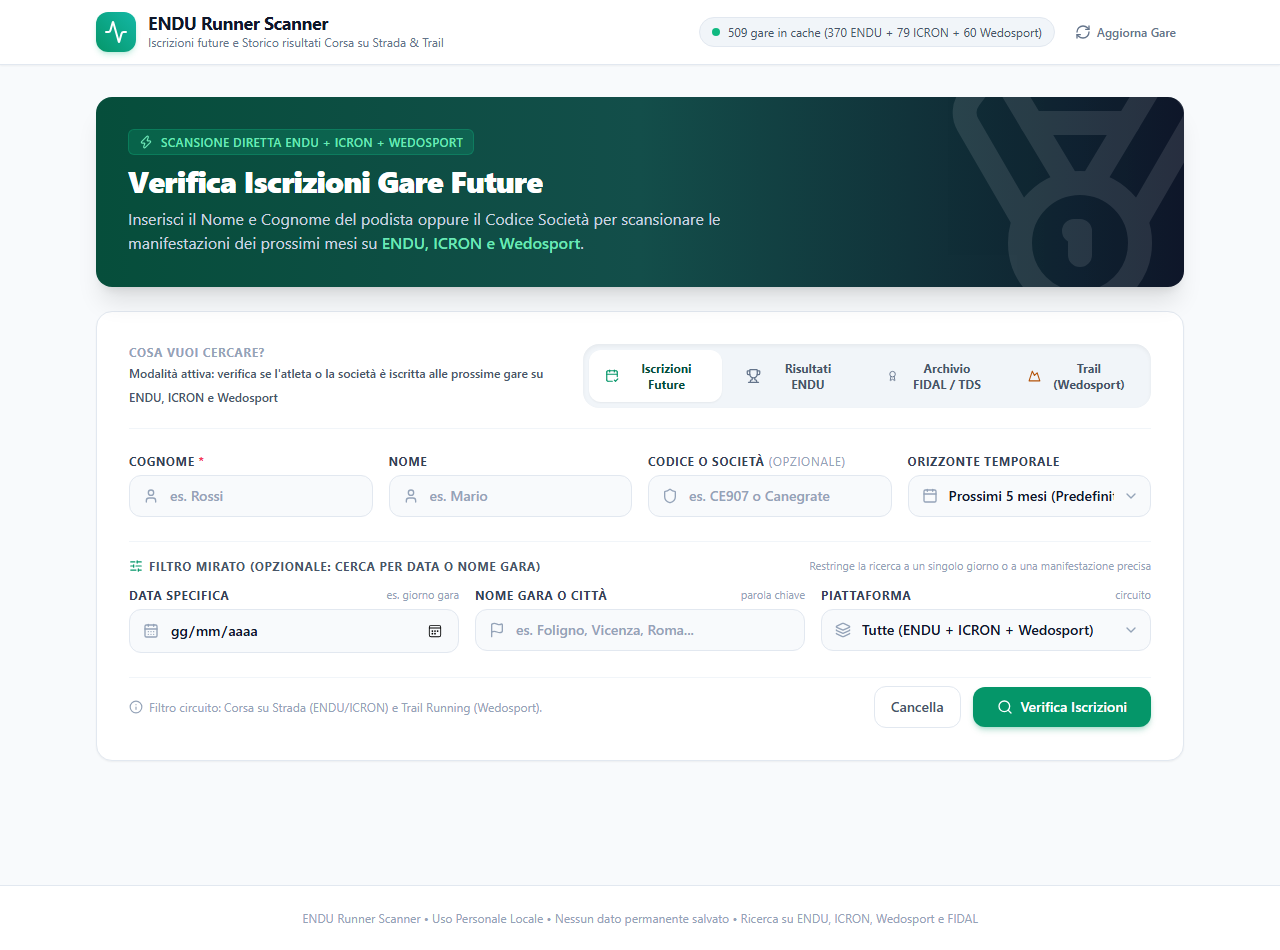
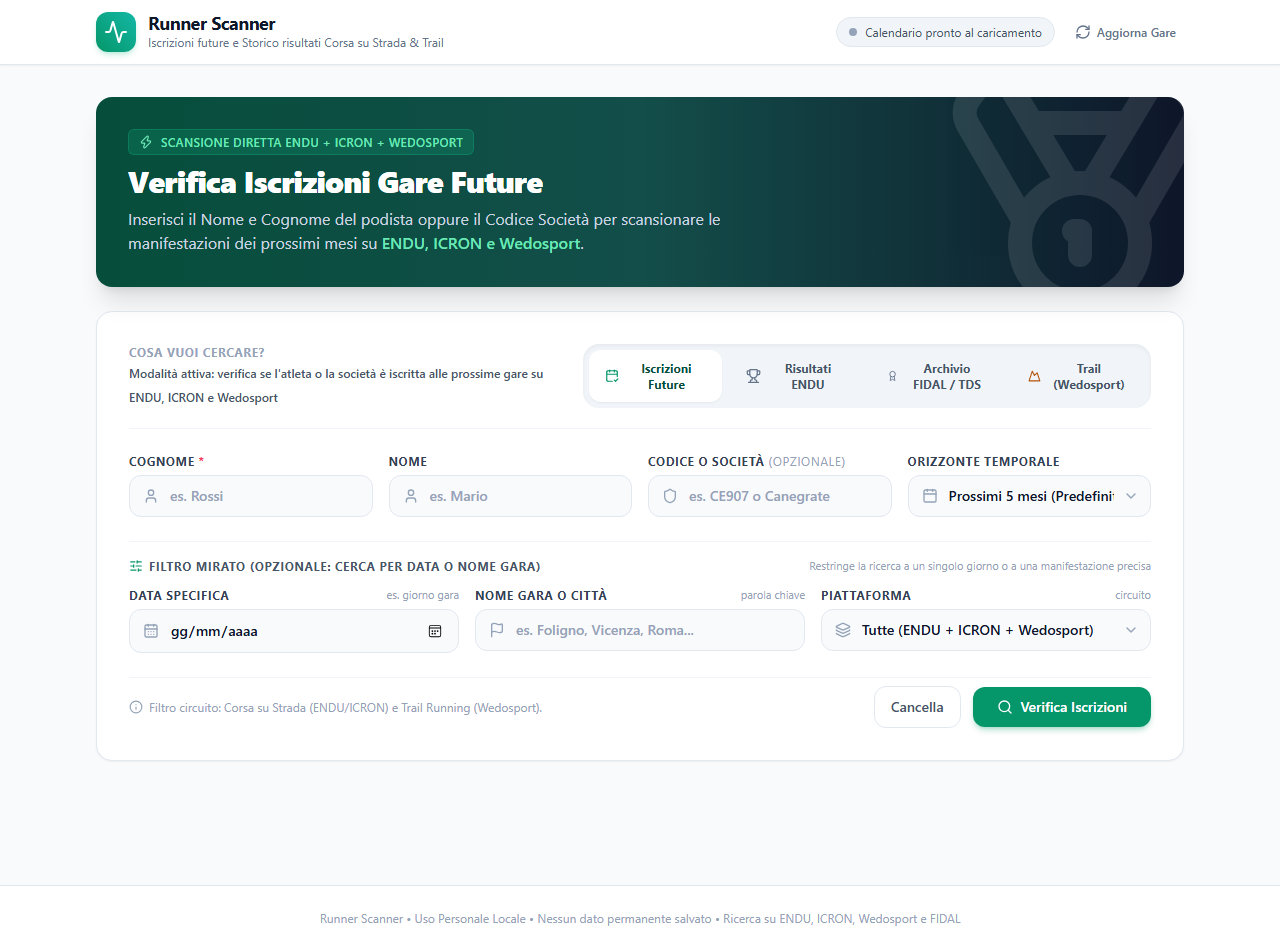
feat(branding): rinomina completa del progetto in Runner Scanner ovunque

Changed region(s): [[0.25, 0.9463, 0.75, 0.9768], [0.5625, 0.0305, 0.8125, 0.0611], [0.125, 0.0, 0.25, 0.0305]]

diff --git a/frontend/index.html b/frontend/index.html
@@ -3,7 +3,7 @@
 <head>
     <meta charset="UTF-8">
     <meta name="viewport" content="width=device-width, initial-scale=1.0">
-    <title>ENDU, ICRON &amp; Wedosport Runner Scanner (Strada &amp; Trail)</title>
+    <title>Runner Scanner - Corsa su Strada &amp; Trail</title>
     <!-- Tailwind CSS CDN -->
     <script src="https://cdn.tailwindcss.com"></script>
     <!-- Lucide Icons CDN -->
@@ -21,7 +21,7 @@
                     <i data-lucide="activity" class="w-6 h-6"></i>
                 </div>
                 <div>
-                    <h1 class="text-lg font-bold tracking-tight text-slate-900 leading-none">ENDU Runner Scanner</h1>
+                    <h1 class="text-lg font-bold tracking-tight text-slate-900 leading-none">Runner Scanner</h1>
                     <p class="text-xs text-slate-500 mt-0.5">Iscrizioni future e Storico risultati Corsa su Strada &amp; Trail</p>
                 </div>
             </div>
@@ -328,7 +328,7 @@
 
     <!-- Footer -->
     <footer class="bg-white border-t border-slate-200 py-6 text-center text-xs text-slate-400">
-        <p>ENDU Runner Scanner &bull; Uso Personale Locale &bull; Nessun dato permanente salvato &bull; Ricerca su ENDU, ICRON, Wedosport e FIDAL</p>
+        <p>Runner Scanner &bull; Uso Personale Locale &bull; Nessun dato permanente salvato &bull; Ricerca su ENDU, ICRON, Wedosport e FIDAL</p>
     </footer>
 
     <!-- App JavaScript -->

diff --git a/frontend/static/app.js b/frontend/static/app.js
@@ -1,5 +1,5 @@
 /**
- * ENDU Runner Scanner & Risultati - Frontend Logic
+ * Runner Scanner - Frontend Logic
  * Gestisce:
  *  1. Verifica iscrizioni a gare future (SSE stream)
  *  2. Consultazione dello storico tempi e piazzamenti in gare passate (SSE stream)

diff --git a/app.py b/app.py
@@ -27,8 +27,8 @@ logging.basicConfig(level=logging.INFO, format="%(asctime)s [%(levelname)s] %(me
 logger = logging.getLogger("endu_tool")
 
 app = FastAPI(
-    title="ENDU, ICRON & Wedosport Road & Trail Running Checker",
-    description="Applicazione locale per verificare le iscrizioni su ENDU, ICRON e Wedosport, consultare lo storico risultati ENDU, l'archivio federale FIDAL/TDS e la carriera Trail Running Wedosport.",
+    title="Runner Scanner",
+    description="Applicazione locale per verificare le iscrizioni e consultare lo storico risultati su ENDU, ICRON, Wedosport e FIDAL.",
     version="3.3.0"
 )
 
@@ -613,7 +613,7 @@ if __name__ == "__main__":
     local_url = f"http://{host}:{port}"
     
     print("\n" + "=" * 60)
-    print("  🏃 ENDU, ICRON & WEDOSPORT RUNNER SCANNER (STRADA & TRAIL) 🏃")
+    print("          🏃 RUNNER SCANNER (STRADA & TRAIL) 🏃")
     print("=" * 60)
     print("Server locale avviato con successo!")
     print(f"Apri il tuo browser all'indirizzo: {local_url}")

diff --git a/tests/test_api.py b/tests/test_api.py
@@ -13,7 +13,7 @@ def test_routes():
     print("1. Testing GET / ...")
     r = client.get("/")
     assert r.status_code == 200
-    assert "ENDU Runner Scanner" in r.text
+    assert "Runner Scanner" in r.text
     print("   GET / OK!")
 
     print("2. Testing GET /api/calendar/status ...")

diff --git a/README.md b/README.md
@@ -1,4 +1,4 @@
-# 🏃 ENDU, ICRON & Wedosport Runner Scanner, Results & Trail Archive (v3.3)
+# 🏃 Runner Scanner (v3.3)
 
 Applicazione web locale moderna, veloce e pulita (backend Python FastAPI + frontend HTML5/Tailwind CSS) progettata per podisti, atleti e società sportive per:
 1. **Verificare a quali manifestazioni future di Corsa su Strada & Trail Running** (road running, trail, skyrunning) presenti su [ENDU](https://www.endu.net), [ICRON](https://www.icron.it) e [Wedosport](https://www.wedosport.net) un atleta o una squadra risulta iscritto, con supporto a filtro unificato o per singola piattaforma.
@@ -8,7 +8,7 @@ Applicazione web locale moderna, veloce e pulita (backend Python FastAPI + front
 5. **Cercare rapidamente l'atleta su Strava (Novità v3.3)**, tramite il pulsante scorciatoia dedicato presente accanto a ogni atleta trovato e nelle schede carriera per consultare il profilo e seguirlo (richiede login attivo su Strava).
 
 <p align="center">
-  <img src="assets/screenshot.png" alt="Anteprima Interfaccia ENDU, ICRON & Wedosport Runner Scanner v3.3" width="900" style="border-radius: 12px; box-shadow: 0 4px 20px rgba(0,0,0,0.15);" />
+  <img src="assets/screenshot.png" alt="Anteprima Interfaccia Runner Scanner v3.3" width="900" style="border-radius: 12px; box-shadow: 0 4px 20px rgba(0,0,0,0.15);" />
 </p>
 
 ---
